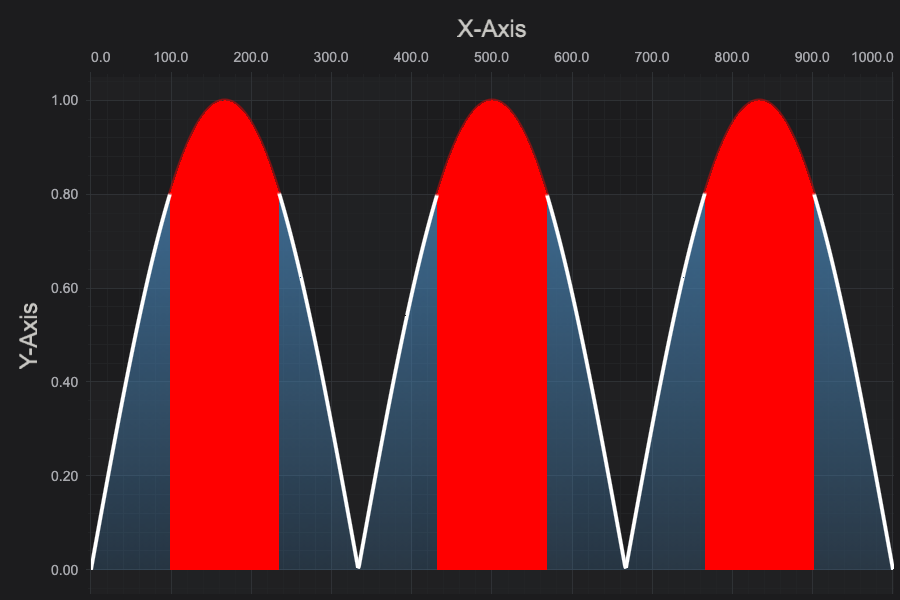
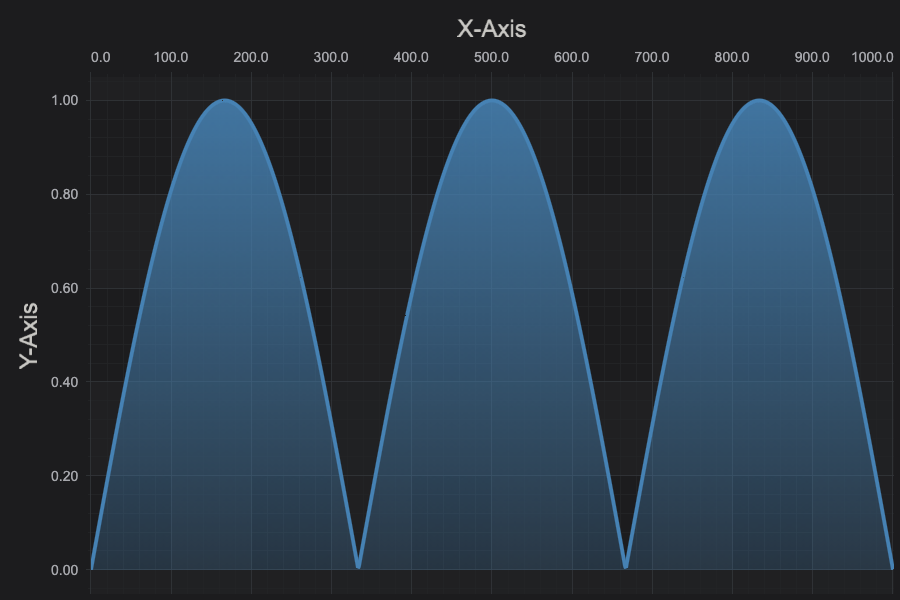
chore(examples): update mountain chart image on the homepage

diff --git a/Examples/src/components/Examples/Charts2D/BasicChartTypes/MountainChart/index.tsx b/Examples/src/components/Examples/Charts2D/BasicChartTypes/MountainChart/index.tsx
@@ -53,7 +53,7 @@ const drawExample = async () => {
             { color: "rgba(70,130,180,0.2)", offset: 1 },
         ]),
         // Optional: Allows per-point colouring of mountain fill and stroke
-        paletteProvider: new MountainPaletteProvider(),
+        // paletteProvider: new MountainPaletteProvider(),
     });
     sciChartSurface.renderableSeries.add(mountainSeries);
 
